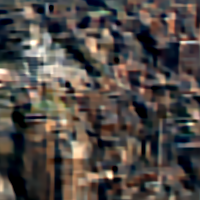
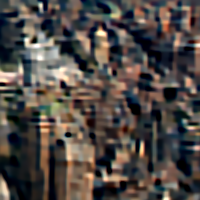
update

diff --git a/hai_deblur_test1/deconv_main.m b/hai_deblur_test1/deconv_main.m
@@ -30,6 +30,9 @@ maxitr=max(floor(log(5/min(k1,k2))/log(ret)),0);
 thresholdR = 1;
 thresholdS = 2;
 
+
+B=imgaussfilt(B,1.2);
+
 retv=ret.^[0:maxitr];
 
 k1list=ceil(k1*retv);
@@ -61,17 +64,15 @@ iter=100;      % iterations
   %For each level
       for i = 1:5
           % evolution
-          tic
           r = gradient_confidence_full(Bp,window_size);
-          toc
           
-          tic
 %           r= exp(-r.^(0.8));        
-%           structure = structure_adaptive_map( I,lambda_texture*r, 100);
+%           structure = structure_adaptive_map( I,lambda_texture*r, 100);          
 %           I_= shock(structure,iter,dt,h,'org');
 %           structure = I_;
+          
           structure= shock(I,iter,dt,h,'org');
-          toc
+          
           
           %%%%%%%%%%%compute the gradient of I
           I_x = conv2(structure, [-1,1;0,0], 'valid'); %vertical edges
@@ -80,14 +81,27 @@ iter=100;      % iterations
           By = conv2(Bp, [-1,0;1,0], 'valid'); 
           I_mag = sqrt(I_x.^2+I_y.^2);
           
-          M = heaviside_function(I_mag, thresholdR);
+%           I_x = I_x.*heaviside_function(I_mag,edge_thresh);
+%           I_y = I_y.*heaviside_function(I_mag,edge_thresh);
           
-          I_x = I_x.*heaviside_function(I_mag,edge_thresh);
-          I_y = I_y.*heaviside_function(I_mag,edge_thresh);
+          
+          [r1,c1]=size(I_x);
+          MaskR = heaviside_function(r(1:r1,1:c1), thresholdR);
+           
+          I_x = I_x.*heaviside_function(MaskR.*I_mag,thresholdS);
+          I_y = I_y.*heaviside_function(MaskR.*I_mag,thresholdS);
+          
           %exclude the edge
           I_x(1:2,:) =0;I_x(end-1:end,:) = 0;I_x(:,1:2) =0;I_x(:,end-1:end) = 0;
           I_y(1:2,:) =0;I_y(end-1:end,:) = 0;I_y(:,1:2) =0;I_y(:,end-1:end) = 0;
                        
+          if (sum(I_x)<1e-6) | (sum(I_y)<1e-6)
+              thresholdR = thresholdR/1.1;
+              thresholdS = thresholdS/1.1;
+              i=i+1;
+              continue;
+          end
+          
           tic
           ks=estimate_psf(Bx, By, I_x, I_y, 2, size(kernel));
           
@@ -130,6 +144,10 @@ iter=100;      % iterations
           dt = dt/1.1;
           lambda_texture = lambda_texture/1.1;
           edge_thresh = edge_thresh/1.1;
+          
+          thresholdR = thresholdR/1.1;
+          thresholdS = thresholdS/1.1;
+          
       end
       if (itr>1)
           kernel=resizeKer(kernel,1/ret,k1list(itr-1),k2list(itr-1));

diff --git a/hai_deblur_test1/demo.m b/hai_deblur_test1/demo.m
@@ -12,7 +12,7 @@ lambda_kernel_smooth = 1e-5; %(Adjustable, typically 1e-5, 1e-4, 1e-3)
 display = 1;
 %%%%%%%%%%%%%%%%%%%%%%%%%%%%%%%%%%%%%%%%%%%%%%%%%%%%%%
 % %% example 1
-filename = 'image/details_blur2_45.png';
+filename = 'image/postcard.png';
 % filename = 'image/image3.png';
 kernel_sizeh = 30; kernel_sizew = 30;
 % kernel_sizeh = 35; kernel_sizew = 35;
